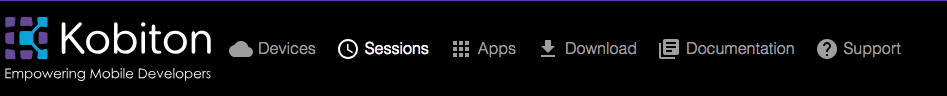
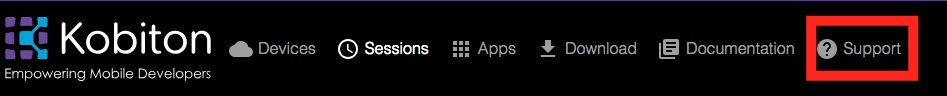
fix documents

Changed region(s): [[0.8268, 0.1562, 0.9799, 0.8438]]

diff --git a/2-run-automation-test.md b/2-run-automation-test.md
@@ -1,55 +1,53 @@
 # Running Automation test with Kobiton
-## 1. Prepare Kobiton configuration for excuting automation testing
-### 1.1 Get Kobiton Username and API Key
-+ Go to  https://portal.kobiton.com
+This guide will demonstrate how to run an automation test with Kobiton.
+## Table of contents
+[1. Prepare Kobiton configure for executing automation testing](#1-prepare-kobiton-configure-for-executing-automation-testing)
+
+[2. Write the automation test script](#2-write-the-automation-test-script)
+
+[3. Call Kobiton REST API to get session information](#3-call-kobiton-rest-api-to-get-session-information)
+
+## 1. Prepare Kobiton configure for executing automation testing 
+If you do not have a Kobiton account yet, go ahead to [create a free trial account](https://kobiton.com/freetrial/) and sign in. It takes just a few moments.
 
 **a. Get Kobiton Username**
-  + In the upper right hand corner, click on User icon and in the drop down menu, select 'Profile' 
+  + Go to  https://portal.kobiton.com
+  + In the upper right hand corner, click on User icon and in the drop down menu, select 'Profile'.
 
 ![alt text](./assets/click_profile.png )
 
-+ You should see your username
++ You should see your username.
 
 ![alt text](./assets/username.png )
 
-**b.Get Kobiton API key**
-+ Click on user icon in the upper right hand corner again and select 'Setting'
+**b. Get Kobiton API key**
++ Click on user icon in the upper right hand corner again and select 'Setting'.
 
 ![alt text](./assets/click_setting.png )
 
-+ You will see your API key under the 'API Keys' 
++ You will see your API key under the 'API Keys'. 
 
 ![alt text](./assets/api_key.png )
 
-1.2 Configure in your project TeamCity
-+ In your project in TeamCity, on the left side on the page, click on 'Build Step' to set build steps
-+ On ther right side on the page, Choose 'Command Line ' on the combo box 'Runner type'
-+ Add command line to box. 
+**c. Get Desired cap**
++ In the navigation bar at the top of the Kobiton website, select `Devices`.
 
-Example:
-```
-  cd javascript
-  npm install
-  npm run android-web-test
-```
+![alt text](./assets/devices.png )
 
-![alt text](./assets/cmd.png )
-
-## 2. Write the automation test script
-2.1 Desired cap
-+ In the navigation bar at the top of the Kobiton website, select Devices.
-+ Hover over any device and click on the Automation settings button then a dialog appear in screen.
++ Hover over any device and click on the Automation settings button. A dialog box will then appear on screen.
 
 ![alt text](./assets/click_auto.png )
 
-+ On the left hand side, you can select your preferred language such as App Type
++ On the left hand side, you can select your preferred language, App Type...
 
 ![alt text](./assets/automation.png )
 
-2.2 Write the script
-+ For sample of automation tests, go to https://github.com/kobiton/samples .
+## 2. Write the automation test script
+**a. Write the script**
++ For samples of automation tests, go to https://github.com/kobiton/samples .
 + Choose a language for your test script, and decide whether you want to test on Android or IOS , and either do a web test or an app test. 
-+ Make sure in the code you specify your Kobiton username, API key and information under desiredCaps. 
++ Make sure in the code you specify your Kobiton username, API key and information under desiredCaps.
+
 Example:
 
 ```javascript
@@ -71,13 +69,28 @@ const apiKey = process.env.KOBITON_API_KEY
   udid:               {your_device_udid}
 }
 ```
-+ Now, try build and check Kobiton cloud devices to see if a test session was created.
+
+**b. Configure in your TeamCity project**
++ In your project in TeamCity, on the left side on the page, click on 'Build Step' to set build steps.
++ On the right side of the page,  for the 'Runner type' category, choose 'Command Line '.
++ Add command lines to your script content. 
+
+Example:
+```
+  cd javascript
+  npm install
+  npm run android-web-test
+```
+
+![alt text](./assets/cmd.png )
++ Now, try a build on Teamity and check Kobiton cloud devices to see if a test session was created.
+
 ## 3. Call Kobiton REST API to get session information
-3.1 Get the automation session data through Kobiton REST API
+**a. Get the automation session data through Kobiton REST API**
 
 To make a request:
 
-+ Encode your cedential in base64 for HTTP Basic Authentication, you may use below command and note the text result:
++ Encode your credentials in base64 for HTTP Basic Authentication, you may use below command and note the text result:
 
 ```
   echo -n <your username>:<your api key>
@@ -88,40 +101,48 @@ To make a request:
   -H 'Authorization: Basic dGVzdHVzZXI6MTIzZWQtMTIzZmFjLTkxMzdkY2E='
   -H 'Accept: application/json'
 ``` 
-a. Get Application info 
+**Get Application info** 
 ```
   GET /apps/{application_ID}
 ```
-You can get your application id in your desiredCaps.
-b. Get session info
+You can get your application ID in your desiredCaps. If you find your application ID, you can select `Apps` in the navigation bar at the top of the Kobiton website.
+
+![alt text](./assets/apps.png )
+
+**Get session info**
 ```
   GET /session/{sessionID}
 ```
 Response elements:
 
-+ state: Test final result
-+ deviceBooked: Check if the device is booked
-+ log: The log URL and video URL
++ `state`: Test final result
++ `deviceBooked`: Check if the device is booked
++ `log`: The log URL and video URL
+
 For more information, go to https://api.kobiton.com/docs/
 
-c. Get session Commands
+**Get session Commands**
 ```
   GET /session/{sessionId}/commands
 ```
-To get a certain page of your commands, add page parameter in your query For example: GET /session/{sessionId}/commands?page=2
-3.2 Final result
+To get a certain page of your commands, add page parameter in your query.
+
+For example: GET /session/{sessionId}/commands?page=2
+
+**b. Final result**
+
 The test is either a success or failure.
 
-Failure Case
+**Failure Case**
 
 + Error: "The environment you requested was unavailable."
   
-  + This means that the device you selected is already booked. Either select a different device or wait a few moments until your device becomes available
+  + This means that the device you selected is already booked. Either select a different device or wait a few moments until your device becomes available.
 
 + Other
 
   + Contact Kobiton for support
-  + Go to portal.kobiton.com
+  + Go to https://portal.kobiton.com/
   + In the navigation bar at the top of the page, click on 'Support'
 
   ![alt text](./assets/support.png )

diff --git a/1-trigger-TeamCity.md b/1-trigger-TeamCity.md
@@ -1,64 +1,23 @@
-# Triggering a Teamcity buid from a push GitHub
+# Triggering a Teamcity build from a push GitHub
 
-This guide will demonstrate how to get Teamcity to build your project everytime your soure code is changed and pushed to GitHub
-## Prerequistes
-+ Java(JRE). Supported are:
-    + Oracle java 8 and updates
-    + OpenJDK 8.
-+ Download and install TeamCity in https://www.jetbrains.com/teamcity/download/
-+ TeamCity account
-+ GitHub repository
-## 1. Sign in to Teamcity 
-+ Starting TeamCity server by running the following in your terminal:
-    ```
-     cd TeamCity/bin
-     ./runAll.sh start
-    ```
-By default, TeamCity run on  http://localhost:8111
+This guide will demonstrate how to get Teamcity to build your project every time your soure code is changed and pushed to GitHub.
+## Table of contents
+[1. Set up TeamCity](#1-setup-teamcity)
 
-![alt text](./assets/run_server.png )
+[2. Configure TeamCity with GitHub](#2-configure-teamcity-with-github)
 
-+ Enter your TeamCity username and password then click `Log in`. 
+## 1. Setup TeamCity
++ TeamCity server is a web application that runs within a capable J2EE servlet container. So, you can installing the JDK software and setting JAVA_HOME from [here](https://docs.oracle.com/cd/E19182-01/820-7851/inst_cli_jdk_javahome_t/).
 
-![alt text](./assets/login.png )
+ + Downloads TeamCity from [here](https://www.jetbrains.com/teamcity/download/). 
 
-## 2. Configuring TeamCity
-Click on `Administration` then click button `Create project`.
+ + Installing and Configuring the TeamCity server from [this guide](https://confluence.jetbrains.com/display/TCD18/Installing+and+Configuring+the+TeamCity+Server).
 
-![alt text](./assets/creat_project.png )
+ ## 2. Configure TeamCity with GitHub
++ Connect GitHub with TeamCity, you can follow [this guide](http://devexpress.github.io/testcafe/documentation/recipes/integrating-testcafe-with-ci-systems/teamcity.html).
+ 
+ + More information about TeamCity can be found [this tutorial](https://confluence.jetbrains.com/display/TCD10/TeamCity+Documentation).
+ + Now that you have a project, you can now start configuring tasks. In the [next guideline](2-run-automation-test.md), we will configure tasks that will allow us run an automation test wwith Kobiton.
 
-+ Enter 'Project Name' and 'Project ID' then click button `Create` 
 
-![alt text](./assets/info_project.png )
 
-+ Click button `Create build configuration` on the right column 
-
-![alt text](./assets/creat-build.png )
-
-+ Enter Build configuration Name then click button `create`
-
-![alt text](./assets/inf_creatbuild.png )
-+ Configuring the Branch Specification under the VCS root:
-    + Click `Show advanced options` to  see advanced options.
-    + In the `Type of VCS`, choose 'Git' and fill required information. 
->Note:  
-> + +refs/pull/*/merge:    When a pull request is made, GitHub automatically creates a reference that holds the pull request as well as one that is a merge with the master branch
-> + If you want to build the branch, without merging, you could use the following: +:refs/pull/*/head
-
-![alt text](./assets/VCS.png )
-
-+ Click button `test conection`, a dialog appears and announces 'success' or 'fail'. if success, Click button `Create connect` else you should check information
-
-![alt text](./assets/connect.png )
-
-+ You can see list in the left column , click on `triggers` then on the right column click button `add new trigger`. 
-
-![alt text](./assets/click_trigger.png )
-
-+ Choose 'VCS trigger' and save
-
-![alt text](./assets/trigger.png )
-
-+ Now, when you push git, you can see TeamCity auto build 
-
-![alt text](./assets/running.png )

diff --git a/README.md b/README.md
@@ -1,13 +1,15 @@
 # TeamCity-TestFlight-Appium-ReactNative
 Guidance on integrating Kobiton service into the mobile app build pipeline: TeamCity, TestFlight, Appium and ReactNative.
+
 If you are using:
 + TeamCity to build app
 + TestFlight for keeping the daily app build
 + Appium to write the automation test
 + Reactnative to write app
-The guidelines in this repo will show you how to trigger a TeamCity build from a push on GitHub, and how to run automation tests with Kobiton.
 
-## Contents
+Kobiton is a mobile cloud platform that enables users to perform manual or automated testing on iOS and Android devices. This guide will demonstrate how to configure Travis CI to get the latest build on Testflight and run Appium automation tests on Kobiton Test Cloud service.
+
+## Table of contents
 
 1. This guide will demonstrate [how to trigger a TeamCity build from a push to GitHub](1-trigger-TeamCity.md)
 2. This guide will demonstrate [how to run automation tests on your app with the Kobiton service](2-run-automation-test.md)
